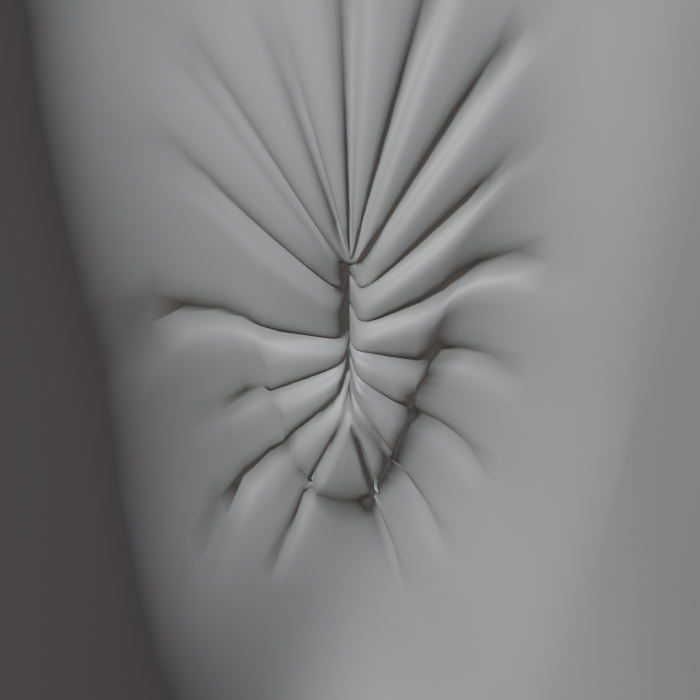
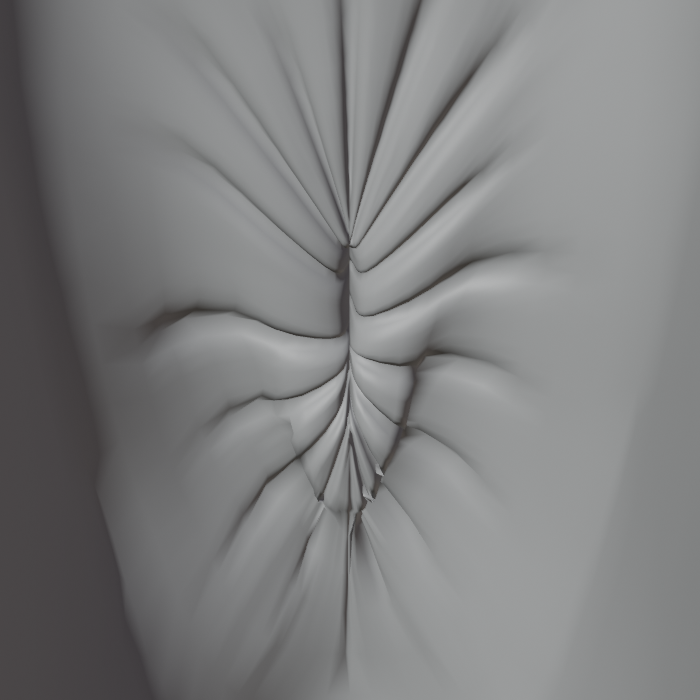
v3: fix the U-shaped ridge from the lopsided base lift; tidy tips
- the old dimple under the pucker is lopsided, so the radially even lift left
  a U-shaped ridge around the back half; lift now follows the dip's own
  front-to-back profile, faded sideways, after relaxing the inner surface
- no ring step-down where the creases run (144 vertices out to r 7.3)
- back creases more even in length (6.2-7.0 mm)
- removed the tip crease-calming and tip smoothing passes (their disc edges
  cut across the creases)

Remaining: faint streaks near the slit tips from sliver faces where all grid
lines converge (visible even with creases off).

Claude-Session: https://claude.ai/code/session_01GkHsFACxGEb36mHX3TdUWk

diff --git a/scripts/build8_v3.py b/scripts/build8_v3.py
@@ -293,7 +293,7 @@ _FRONT = [(120, 0.97, 5.5), (140, 0.93, 6.4), (160, 0.92, 6.6), (180, 0.93, 6.5)
 # uneven V of creases instead of one running straight up the cleft, and the sides are not mirror images
 _BACK = [20, 40, 60, 80, 100, -30, -50, -70, -90]
 CREASES = [(math.radians(d) % (2 * math.pi), w, r1) for d, w, r1 in _FRONT]
-CREASES += [(math.radians(d) % (2 * math.pi), _rng.uniform(0.8, 1.0), _rng.uniform(5.4, 7.0)) for d in _BACK]
+CREASES += [(math.radians(d) % (2 * math.pi), _rng.uniform(0.85, 1.0), _rng.uniform(6.2, 7.0)) for d in _BACK]
 CREASES.sort()
 _ang = [c[0] for c in CREASES]
 CREASE_HALF = []                                                             # half the gap to the nearer neighbour
@@ -365,7 +365,7 @@ S_OUT = 18 if len(L) < 27 else (36 if len(L) < 54 else 72)
 report["outer_ring_verts"] = S_OUT
 rings = []; new_faces = []; info = {}
 for r in RINGS:
-    S = 144 if r < 6.0 else (72 if r < 7.0 else (max(S_OUT, 36) if r < 8.4 else S_OUT))
+    S = 144 if r < 7.3 else (max(S_OUT, 72) if r < 8.4 else S_OUT)   # no ring step-down where the creases run
     ring = []
     for k in range(S):
         th = 2 * math.pi * k / S
@@ -406,7 +406,7 @@ bm.normal_update()
 # round the tight floor/wall corner of the squeezed cleft inside the pucker. Normal-only Laplacian steps, so nothing
 # slides along the surface (ring / pigment layout stays where it was laid out); fades out over the outer rings so
 # the rim still sits on the skin.
-N_ROUND = 25
+N_ROUND = 300                    # v3: enough to relax the inner surface into a smooth membrane
 round_w = {v: 1 - ss(len(rings) - 4, len(rings) - 1, i) for i, ring in enumerate(rings) for v in ring}
 round_w.update({v: 1.0 for v in slit_verts})
 for _ in range(N_ROUND):
@@ -442,7 +442,21 @@ _ctr_h = to_local(base_pos[M[H // 2]])[2]
 LIFT = max(0.0, _end_h - _ctr_h)
 report["base_lift_mm"] = round(LIFT * 1000, 2)
 for v, (r, th) in info.items():
-    base_pos[v] = base_pos[v] + bnorm[v] * (LIFT * (1 - ss(RINGS[0], RINGS[-1] - 0.4, max(r, RINGS[0]))))
+    pass
+# v3: the leftover dip is lopsided (deeper towards the back), so a lift that falls off evenly in every direction left
+# a U-shaped ridge around the back half. Lift by the dip's own profile instead: along the cleft, how far the
+# midline sits below the straight line between the pucker's front and back ends; faded out sideways.
+_mid = sorted((ring_xy(r, th)[0], to_local(base_pos[v])[2]) for v, (r, th) in info.items()
+              if abs(ring_xy(r, th)[1]) < 0.25 and r > 0)
+_mx = np.array([m[0] for m in _mid]); _mh = np.array([m[1] for m in _mid]) * 1000
+_ref = np.interp(_mx, [_mx[0], _mx[-1]], [_mh[0], _mh[-1]])
+_def = np.maximum(_ref - _mh, 0.0)
+_def = np.convolve(np.pad(_def, 6, mode="edge"), np.ones(13) / 13, mode="same")[6:-6]   # smooth the profile
+report["base_lift_mm"] = round(float(_def.max()), 2)
+for v, (r, th) in info.items():
+    x_, y_ = ring_xy(max(r, RINGS[0]), th)
+    lift_mm = float(np.interp(x_, _mx, _def)) * (1 - ss(0.0, 4.5, abs(y_))) * (1 - ss(RINGS[-1] - 1.6, RINGS[-1] - 0.4, r))
+    base_pos[v] = base_pos[v] + bnorm[v] * (lift_mm / 1000)
 # relief along the (smooth) base normal: shallow funnel, creases fanning from the slit, closed slit groove
 # Profile across the slit (from your sketch): the skin rises gently towards the slit, peaks right at its lips, then
 # drops into a narrow V - no wide valley. The rise goes straight out of the cleft (along n): on the steep cheek walls
@@ -460,7 +474,7 @@ for v, (r, th) in info.items():
     else:
         _x, _y = ring_xy(r, th)                    # creases converge at the slit tips: calm them there
         _tip = min(math.hypot(_x - SLIT, _y), math.hypot(_x + SLIT, _y))
-        relief = -fold_amp(r) * crease(th, r) * (1 - 0.4 * math.exp(-(_tip / 0.35) ** 2)) - LIP_ROLL * math.exp(-abs(ring_xy(r, th)[1]) / 0.12) * (1 - ss(SLIT - 0.7, SLIT, abs(ring_xy(r, th)[0])))   # curl in real sideways mm, tapering out before the tips
+        relief = -fold_amp(r) * crease(th, r)  - LIP_ROLL * math.exp(-abs(ring_xy(r, th)[1]) / 0.12) * (1 - ss(SLIT - 0.7, SLIT, abs(ring_xy(r, th)[0])))   # curl in real sideways mm, tapering out before the tips
         v[pig_layer] = 1 - ss(5.6, 7.8, pig_r(r, th))
         v[cre_layer] = crease(th, r)
     relief_of[v] = relief / 1000
@@ -589,14 +603,14 @@ bm.verts.ensure_lookup_table(); bm.normal_update()
 # tidy the tips after the weld / zipper removal: smooth a small patch around each end of the fissure
 _tipc = [O + u * (SLIT / 1000), O - u * (SLIT / 1000)]
 _tipv = [v for v in bm.verts if v.is_valid and not v.is_boundary and min((v.co - t_).length for t_ in TIP_CO) < 0.0006]
-for _ in range(10):
+for _ in range(0):                                   # v3: off - its disc edge cut across the creases
     bm.normal_update()
     _new = {v: v.co + v.normal * (0.5 * (sum((e.other_vert(v).co for e in v.link_edges), Vector())
                                           / len(v.link_edges) - v.co).dot(v.normal)) for v in _tipv}
     for v, p_ in _new.items():
         v.co = p_
 _inner = [v for v in _tipv if min((v.co - t_).length for t_ in TIP_CO) < 0.0006]
-for _ in range(6):                                   # full relaxation right at the tips untangles fold-overs
+for _ in range(0):                                   # v3: off (no fold-overs left to untangle)
     _new = {v: v.co.lerp(sum((e.other_vert(v).co for e in v.link_edges), Vector()) / len(v.link_edges), 0.5)
             for v in _inner}
     for v, p_ in _new.items():
